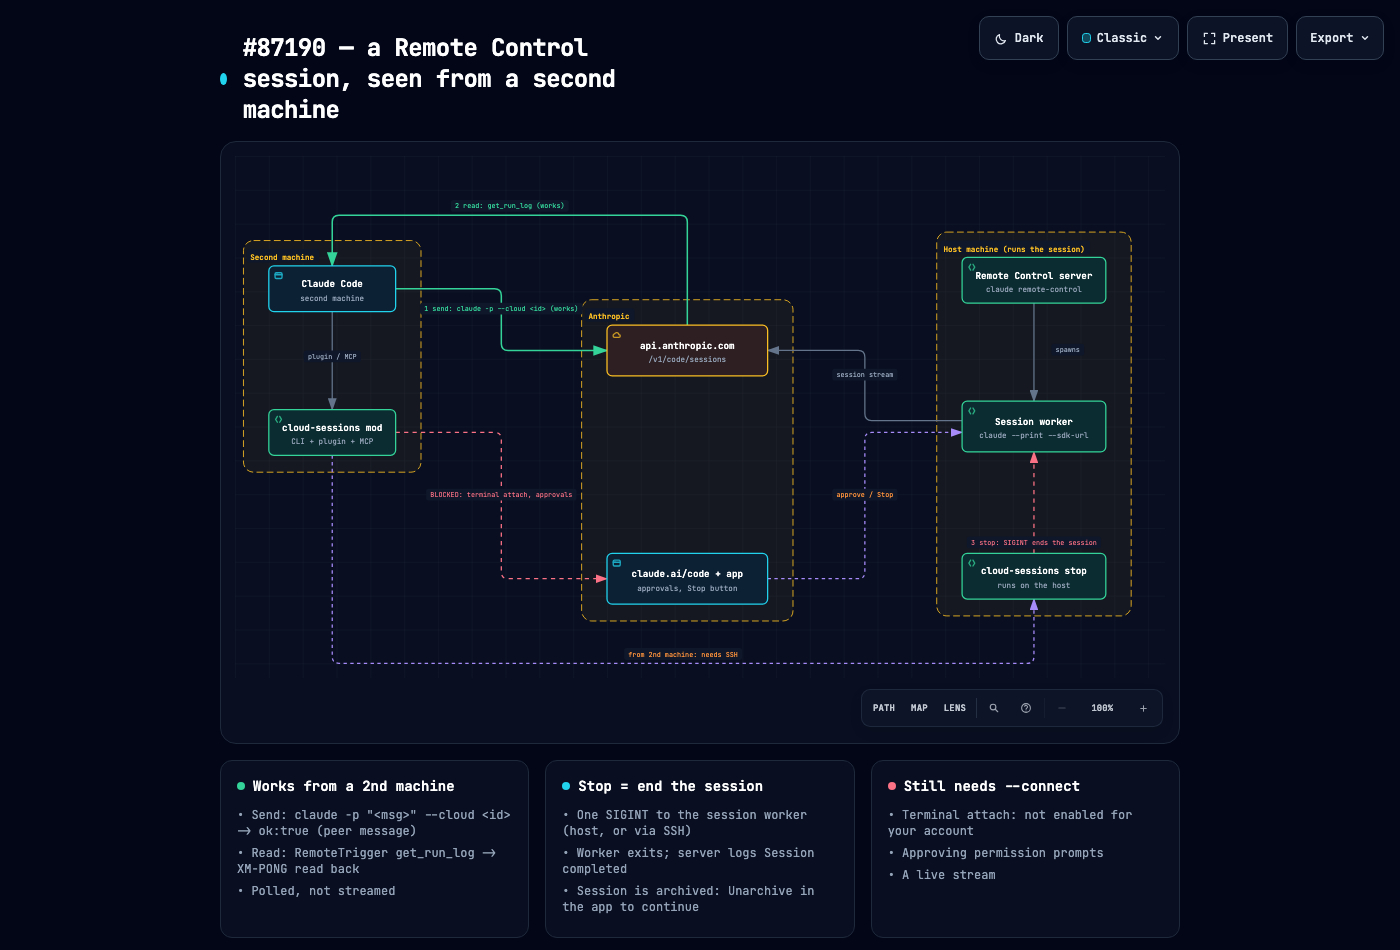
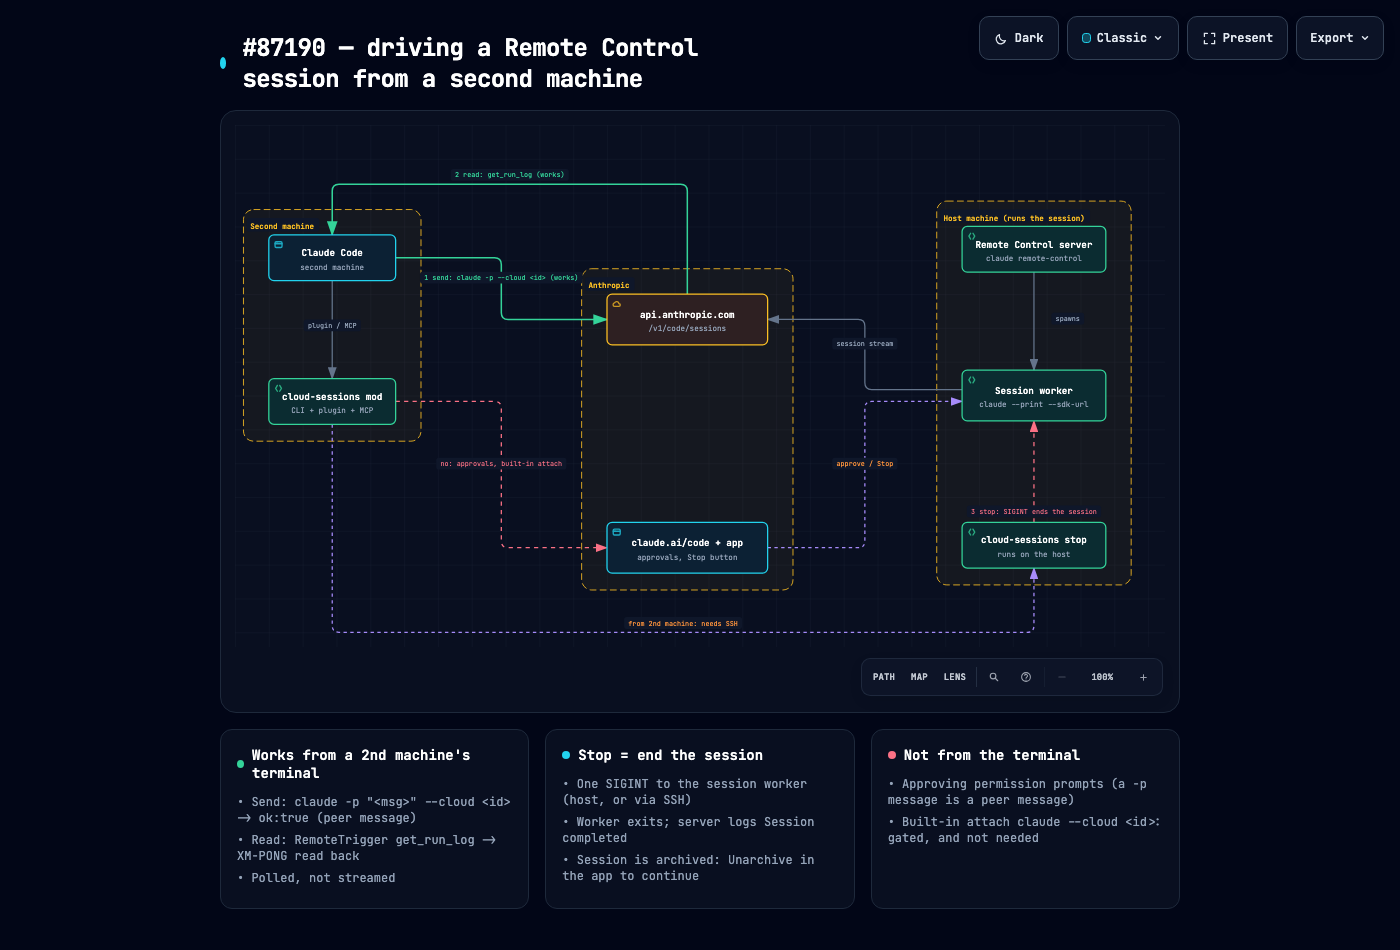
architecture: #87190 diagram — works from a 2nd machine's terminal; approvals the one gap

diff --git a/architecture/index.html b/architecture/index.html
@@ -4,7 +4,7 @@
   <meta charset="UTF-8">
   <meta name="viewport" content="width=device-width, initial-scale=1.0">
   <meta name="generator" content="archify 2.17.0-dev.1">
-  <title>#87190 — a Remote Control session, seen from a second machine Diagram</title>
+  <title>#87190 — driving a Remote Control session from a second machine Diagram</title>
   <script>
     // Resolve the theme before first paint so light-preference users don't
     // see a dark flash. The toolbar script below re-applies with UI state.
@@ -5081,7 +5081,7 @@ OTHER DEALINGS IN THE FONT SOFTWARE.
            data-preset-badge-blueprint="BLUEPRINT / REV 01"
            data-preset-badge-editorial="EDITORIAL / FIELD NOTE">
         <div class="pulse-dot"></div>
-        <h1>#87190 — a Remote Control session, seen from a second machine</h1>
+        <h1>#87190 — driving a Remote Control session from a second machine</h1>
       </div>
     </div>
 
@@ -5131,7 +5131,7 @@ OTHER DEALINGS IN THE FONT SOFTWARE.
     <div class="diagram-container" data-detail-level="read"
          data-preset-badge-editorial-plate="ARCHIFY / PLATE 04">
       <svg viewBox="0 0 1100 618" role="img" lang="en" aria-labelledby="archify-diagram-title archify-diagram-description" data-preset="classic" data-quality-profile="showcase">
-        <title id="archify-diagram-title">#87190 — a Remote Control session, seen from a second machine</title>
+        <title id="archify-diagram-title">#87190 — driving a Remote Control session from a second machine</title>
         <desc id="archify-diagram-description">An architecture diagram generated by Archify.</desc>
         <!-- Definitions -->
         <defs>
@@ -5171,7 +5171,7 @@ OTHER DEALINGS IN THE FONT SOFTWARE.
         <path data-edge-from="hoststop" data-edge-to="worker" data-edge-label="3 stop: SIGINT ends the session" data-edge-key="5" data-edge-id="stop" data-composition-points="945,470;945,350" d="M 945 470 L 945 350" class="a-security" stroke-width="1.5" marker-end="url(#arrowhead-security)"/>
         <path data-edge-from="mod" data-edge-to="hoststop" data-edge-label="from 2nd machine: needs SSH" data-edge-key="6" data-edge-id="ssh" data-composition-points="115,354;115,600;945,600;945,524" d="M 115 354 L 115 592 Q 115 600 123 600 L 937 600 Q 945 600 945 592 L 945 524" class="a-dashed" stroke-width="1.5" marker-end="url(#arrowhead-dashed)"/>
         <path data-edge-from="app" data-edge-to="worker" data-edge-label="approve / Stop" data-edge-key="7" data-edge-id="app-worker" data-composition-points="630,500;745,500;745,327;860,327" d="M 630 500 L 737 500 Q 745 500 745 492 L 745 335 Q 745 327 753 327 L 860 327" class="a-dashed" stroke-width="1.5" marker-end="url(#arrowhead-dashed)"/>
-        <path data-edge-from="mod" data-edge-to="app" data-edge-label="BLOCKED: terminal attach, approvals" data-edge-key="8" data-edge-id="attach" data-composition-points="190,327;315,327;315,500;440,500" d="M 190 327 L 307 327 Q 315 327 315 335 L 315 492 Q 315 500 323 500 L 440 500" class="a-security" stroke-width="1.5" marker-end="url(#arrowhead-security)"/>
+        <path data-edge-from="mod" data-edge-to="app" data-edge-label="no: approvals, built-in attach" data-edge-key="8" data-edge-id="attach" data-composition-points="190,327;315,327;315,500;440,500" d="M 190 327 L 307 327 Q 315 327 315 335 L 315 492 Q 315 500 323 500 L 440 500" class="a-security" stroke-width="1.5" marker-end="url(#arrowhead-security)"/>
 
         <!-- Components -->
         <g id="node-cc2" data-node-id="cc2" data-node-label="Claude Code" tabindex="0" role="button" aria-label="Focus Claude Code, second machine, Second machine" aria-pressed="false" data-node-kind="frontend" data-node-sublabel="second machine" data-node-context="Second machine">
@@ -5291,9 +5291,9 @@ OTHER DEALINGS IN THE FONT SOFTWARE.
           <rect x="706.4" y="393.5" width="77.2" height="14" rx="3" class="c-mask"/>
           <text x="745" y="403.5" class="t-messagebus" font-size="8" text-anchor="middle">approve / Stop</text>
         </g>
-        <g data-detail="context" data-edge-from="mod" data-edge-to="app" data-edge-label="BLOCKED: terminal attach, approvals" data-edge-key="8" data-edge-id="attach">
-          <rect x="226" y="393.5" width="178" height="14" rx="3" class="c-mask"/>
-          <text x="315" y="403.5" class="t-security" font-size="8" text-anchor="middle">BLOCKED: terminal attach, approvals</text>
+        <g data-detail="context" data-edge-from="mod" data-edge-to="app" data-edge-label="no: approvals, built-in attach" data-edge-key="8" data-edge-id="attach">
+          <rect x="238" y="393.5" width="154" height="14" rx="3" class="c-mask"/>
+          <text x="315" y="403.5" class="t-security" font-size="8" text-anchor="middle">no: approvals, built-in attach</text>
         </g>
 
         <!-- Boundary labels (foreground masks keep routes out of titles) -->
@@ -5503,7 +5503,7 @@ OTHER DEALINGS IN THE FONT SOFTWARE.
       <div class="card">
         <div class="card-header">
           <div class="card-dot emerald"></div>
-          <h3>Works from a 2nd machine</h3>
+          <h3>Works from a 2nd machine&#39;s terminal</h3>
         </div>
         <ul>
           <li>&bull; Send: claude -p &quot;&lt;msg&gt;&quot; --cloud &lt;id&gt; -&gt; ok:true (peer message)</li>
@@ -5527,12 +5527,11 @@ OTHER DEALINGS IN THE FONT SOFTWARE.
       <div class="card">
         <div class="card-header">
           <div class="card-dot rose"></div>
-          <h3>Still needs --connect</h3>
+          <h3>Not from the terminal</h3>
         </div>
         <ul>
-          <li>&bull; Terminal attach: not enabled for your account</li>
-          <li>&bull; Approving permission prompts</li>
-          <li>&bull; A live stream</li>
+          <li>&bull; Approving permission prompts (a -p message is a peer message)</li>
+          <li>&bull; Built-in attach claude --cloud &lt;id&gt;: gated, and not needed</li>
         </ul>
       </div>
     </div>
